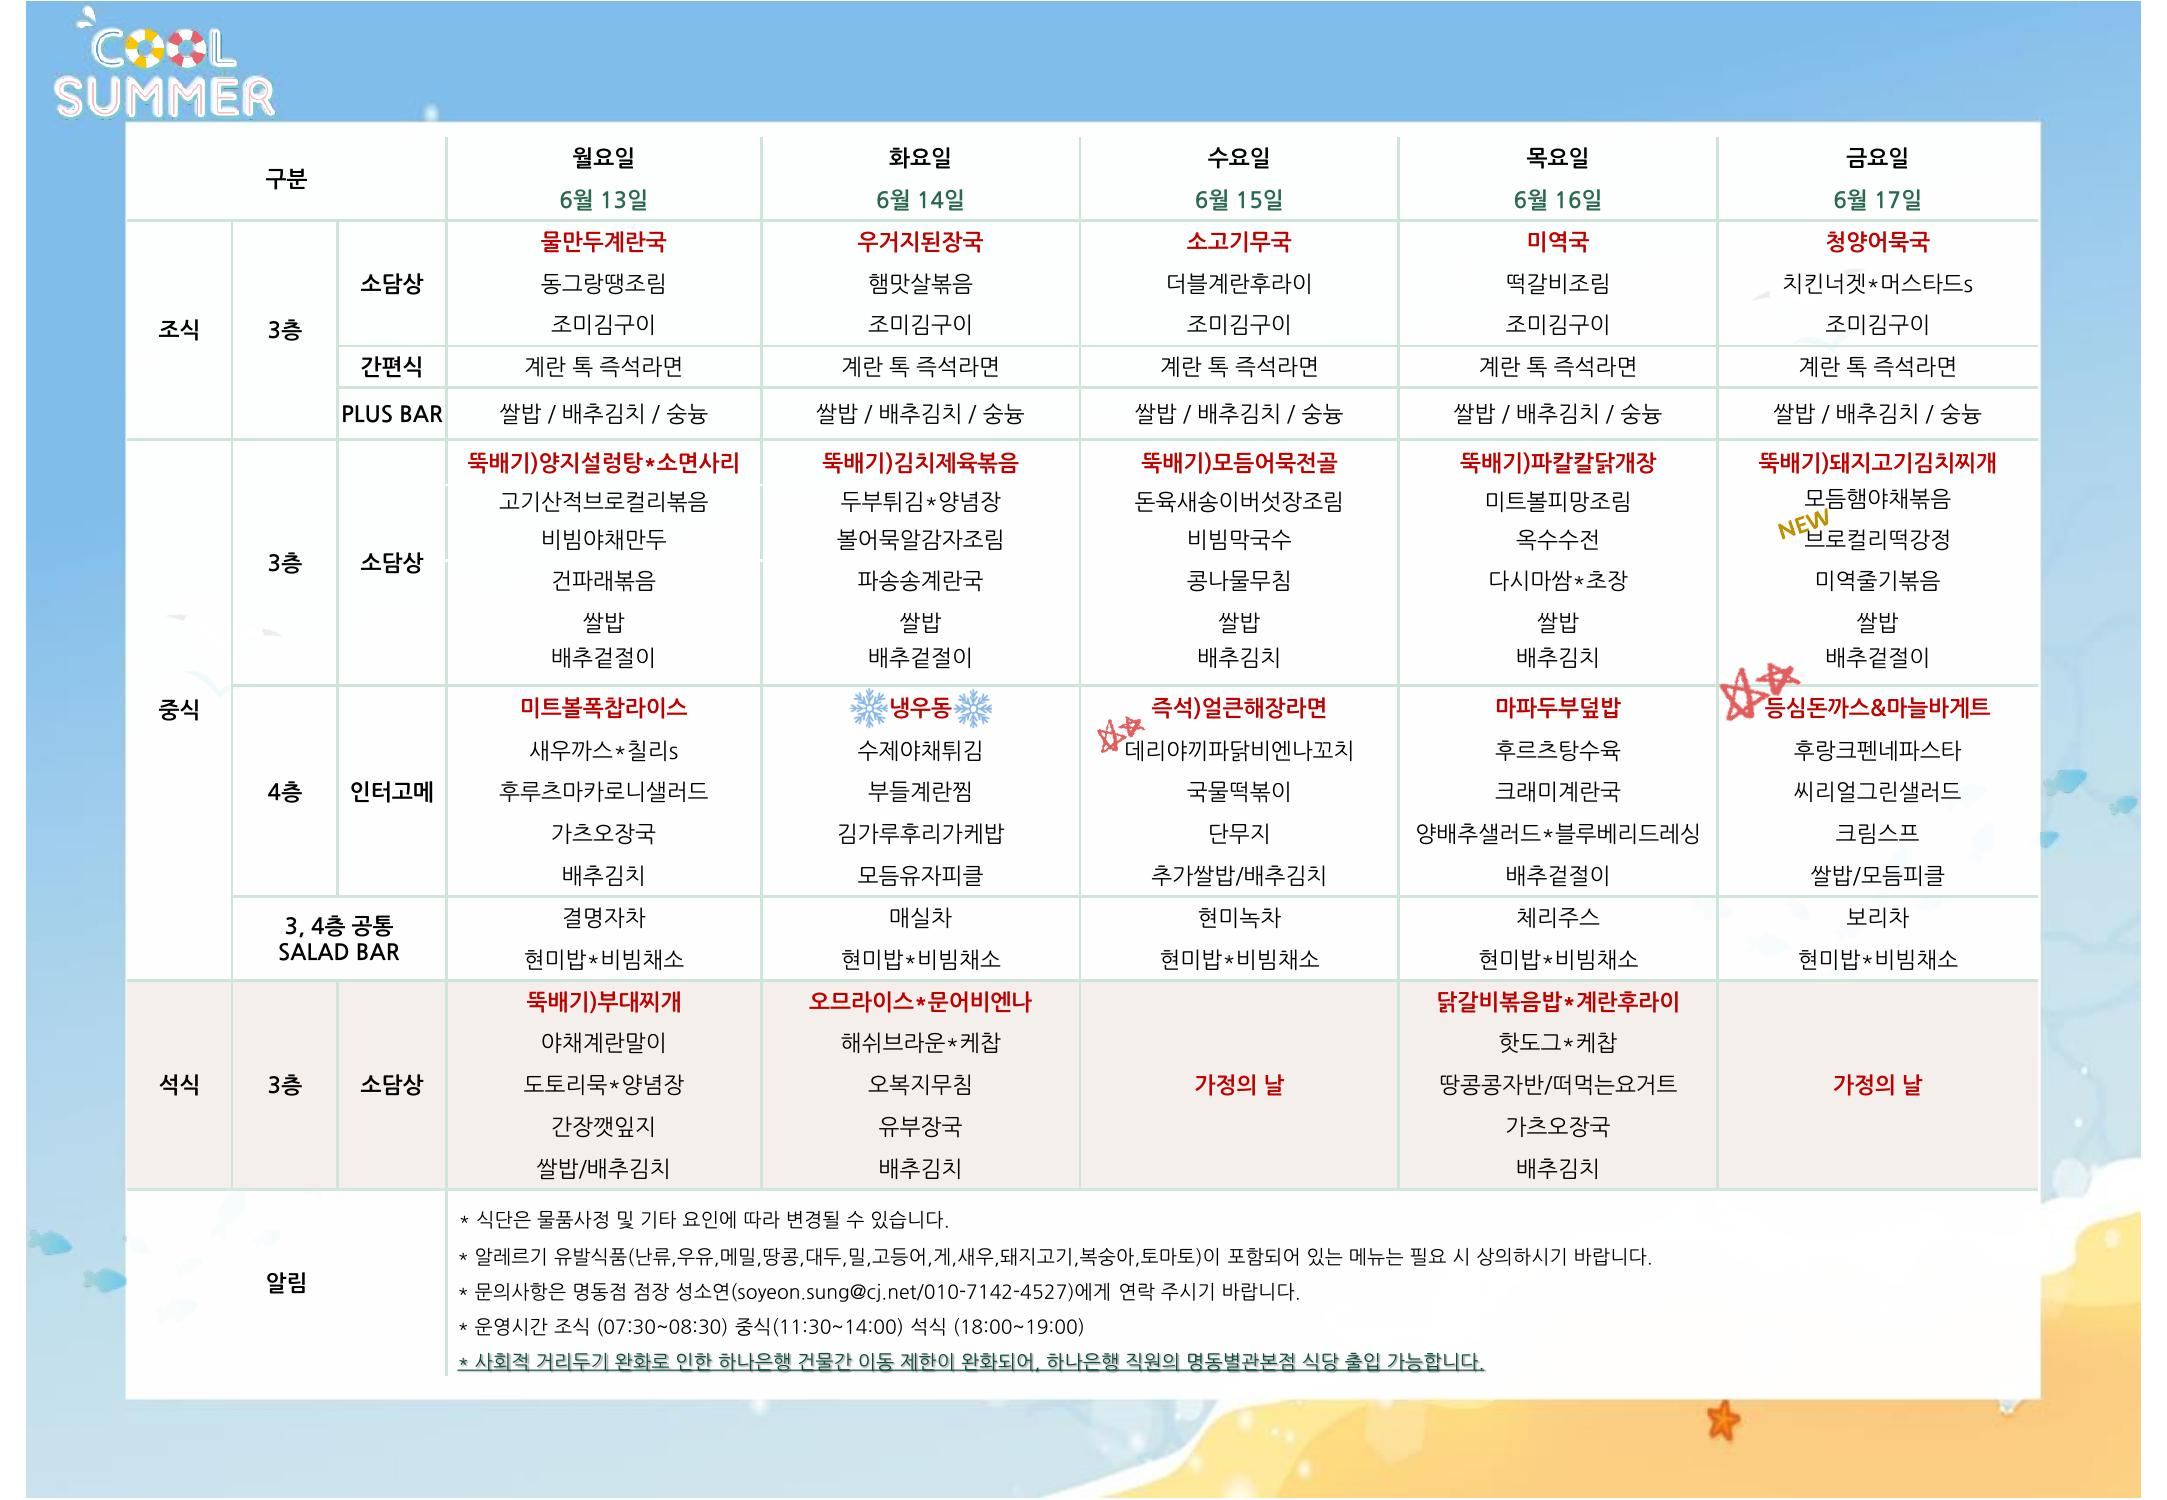
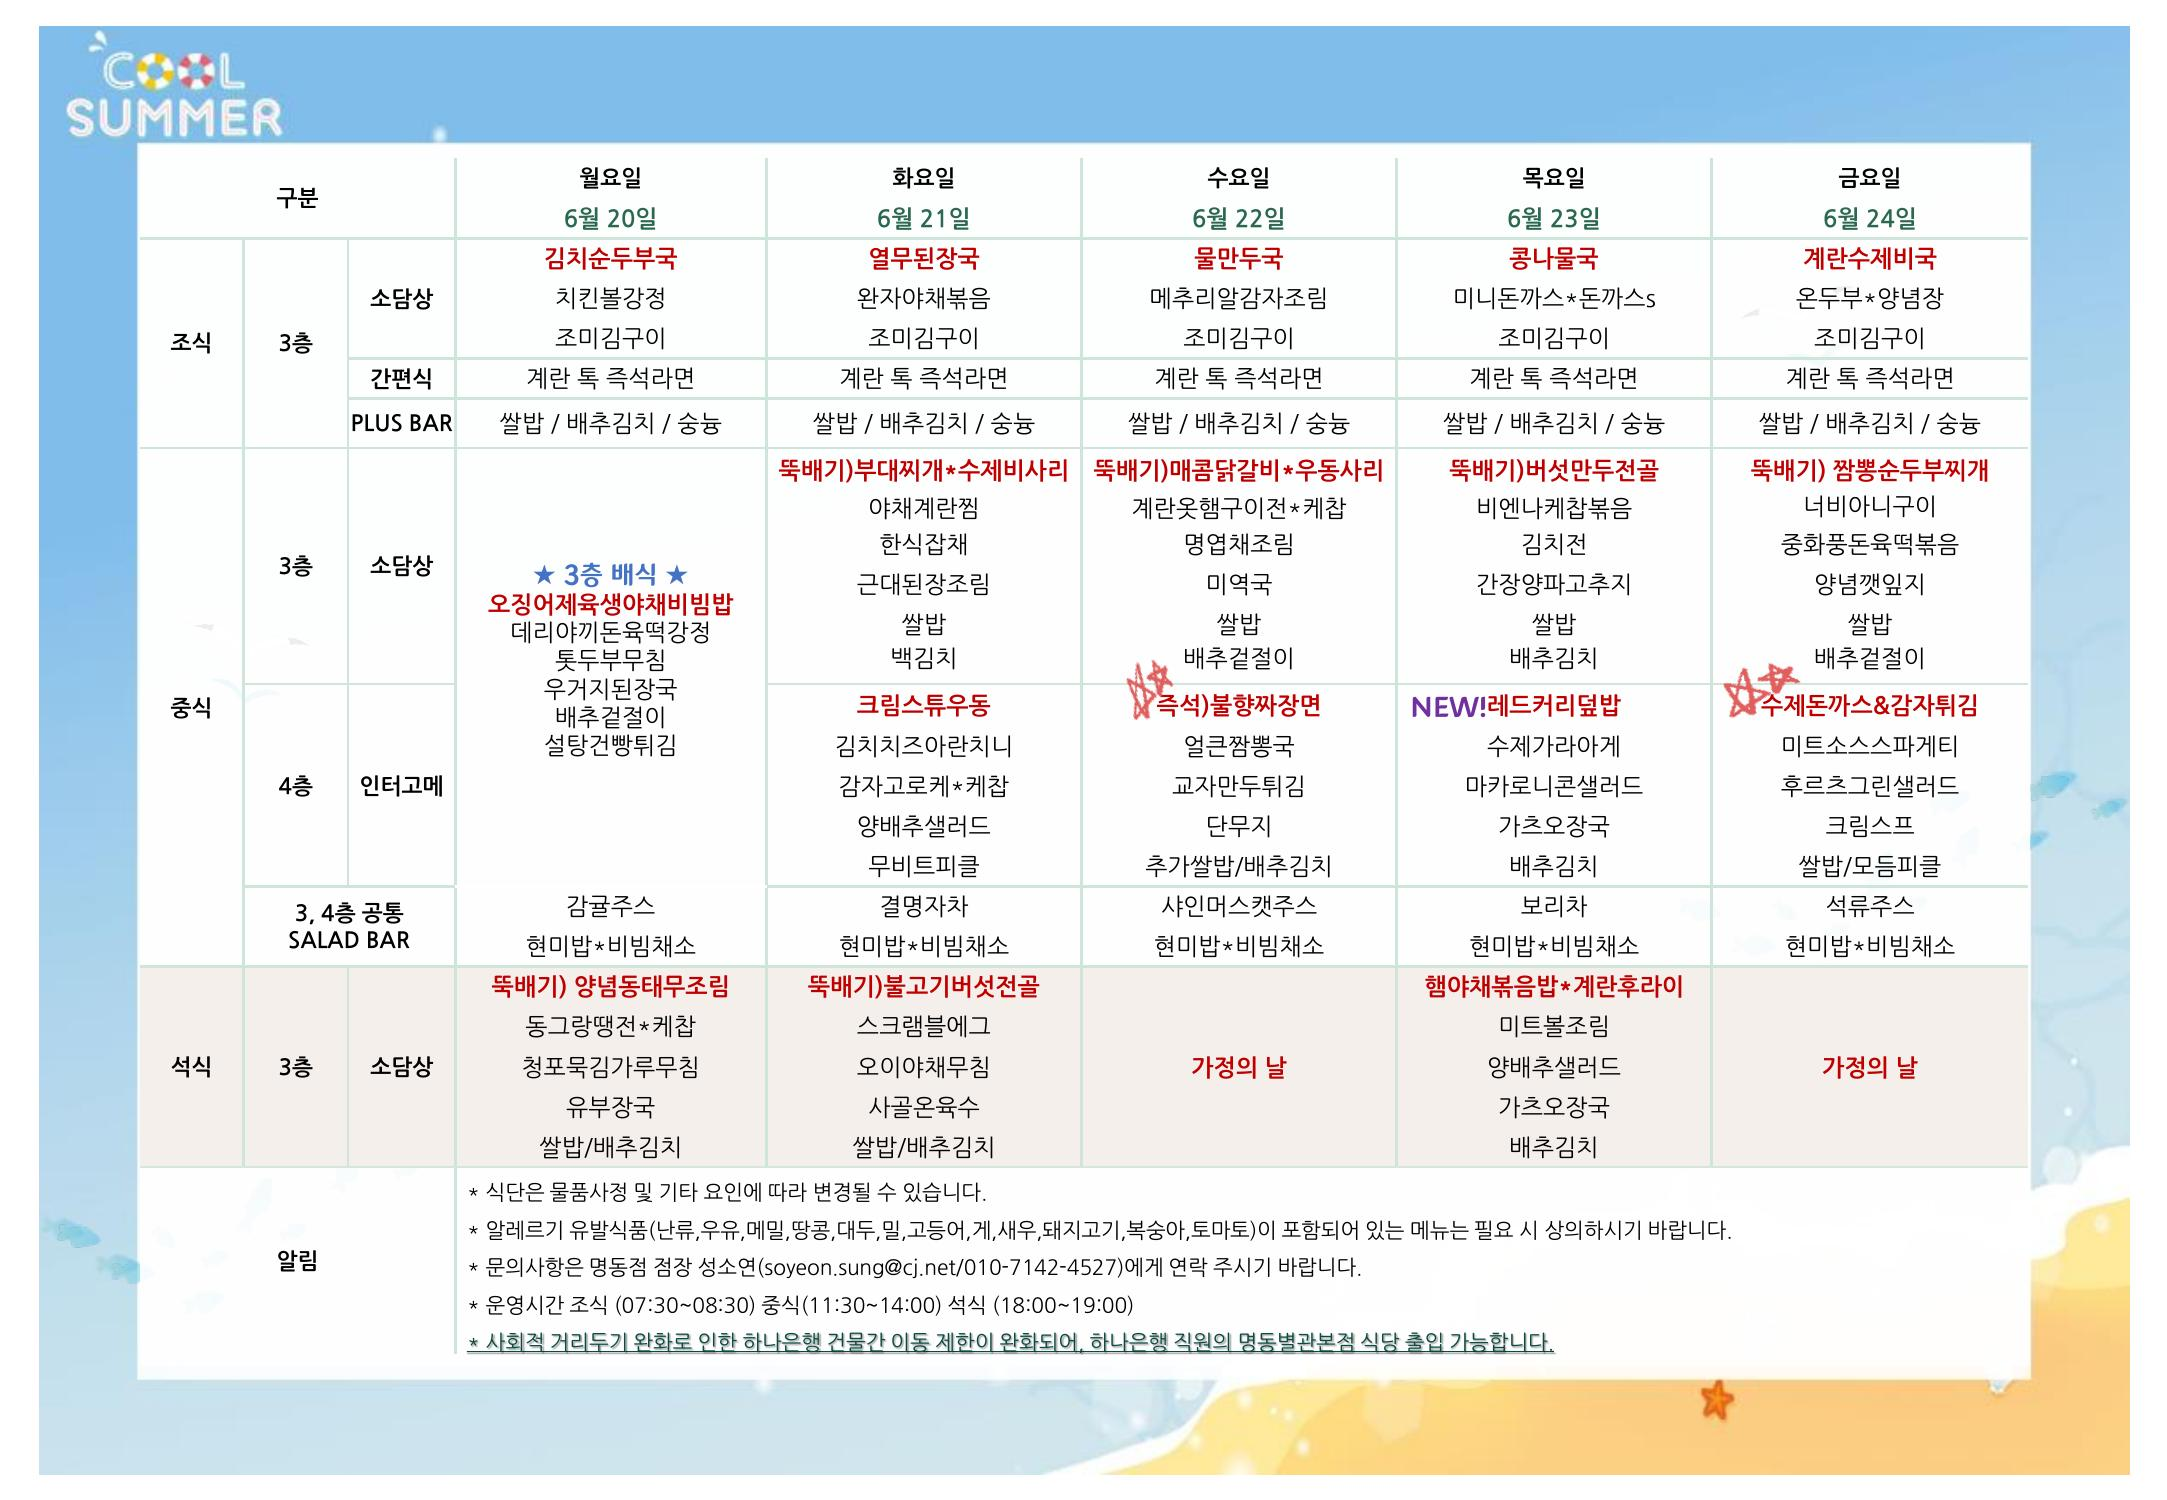
Add Data (Week 25)

diff --git a/src/python/image_crop.py b/src/python/image_crop.py
@@ -23,14 +23,14 @@ def execute_image_crop(location):
         top = 470
         bottom = 1065
     elif location == '명동':
-        mon = 445
-        tue = 760
+        mon = 455
+        tue = 765
         wed = 1080
-        thu = 1400
-        fri = 1720
-        end = 2040
-        top = 440
-        bottom = 980
+        thu = 1395
+        fri = 1710
+        end = 2030
+        top = 450
+        bottom = 965
 
     image_cropping("week", (mon, top, end, bottom))
 
